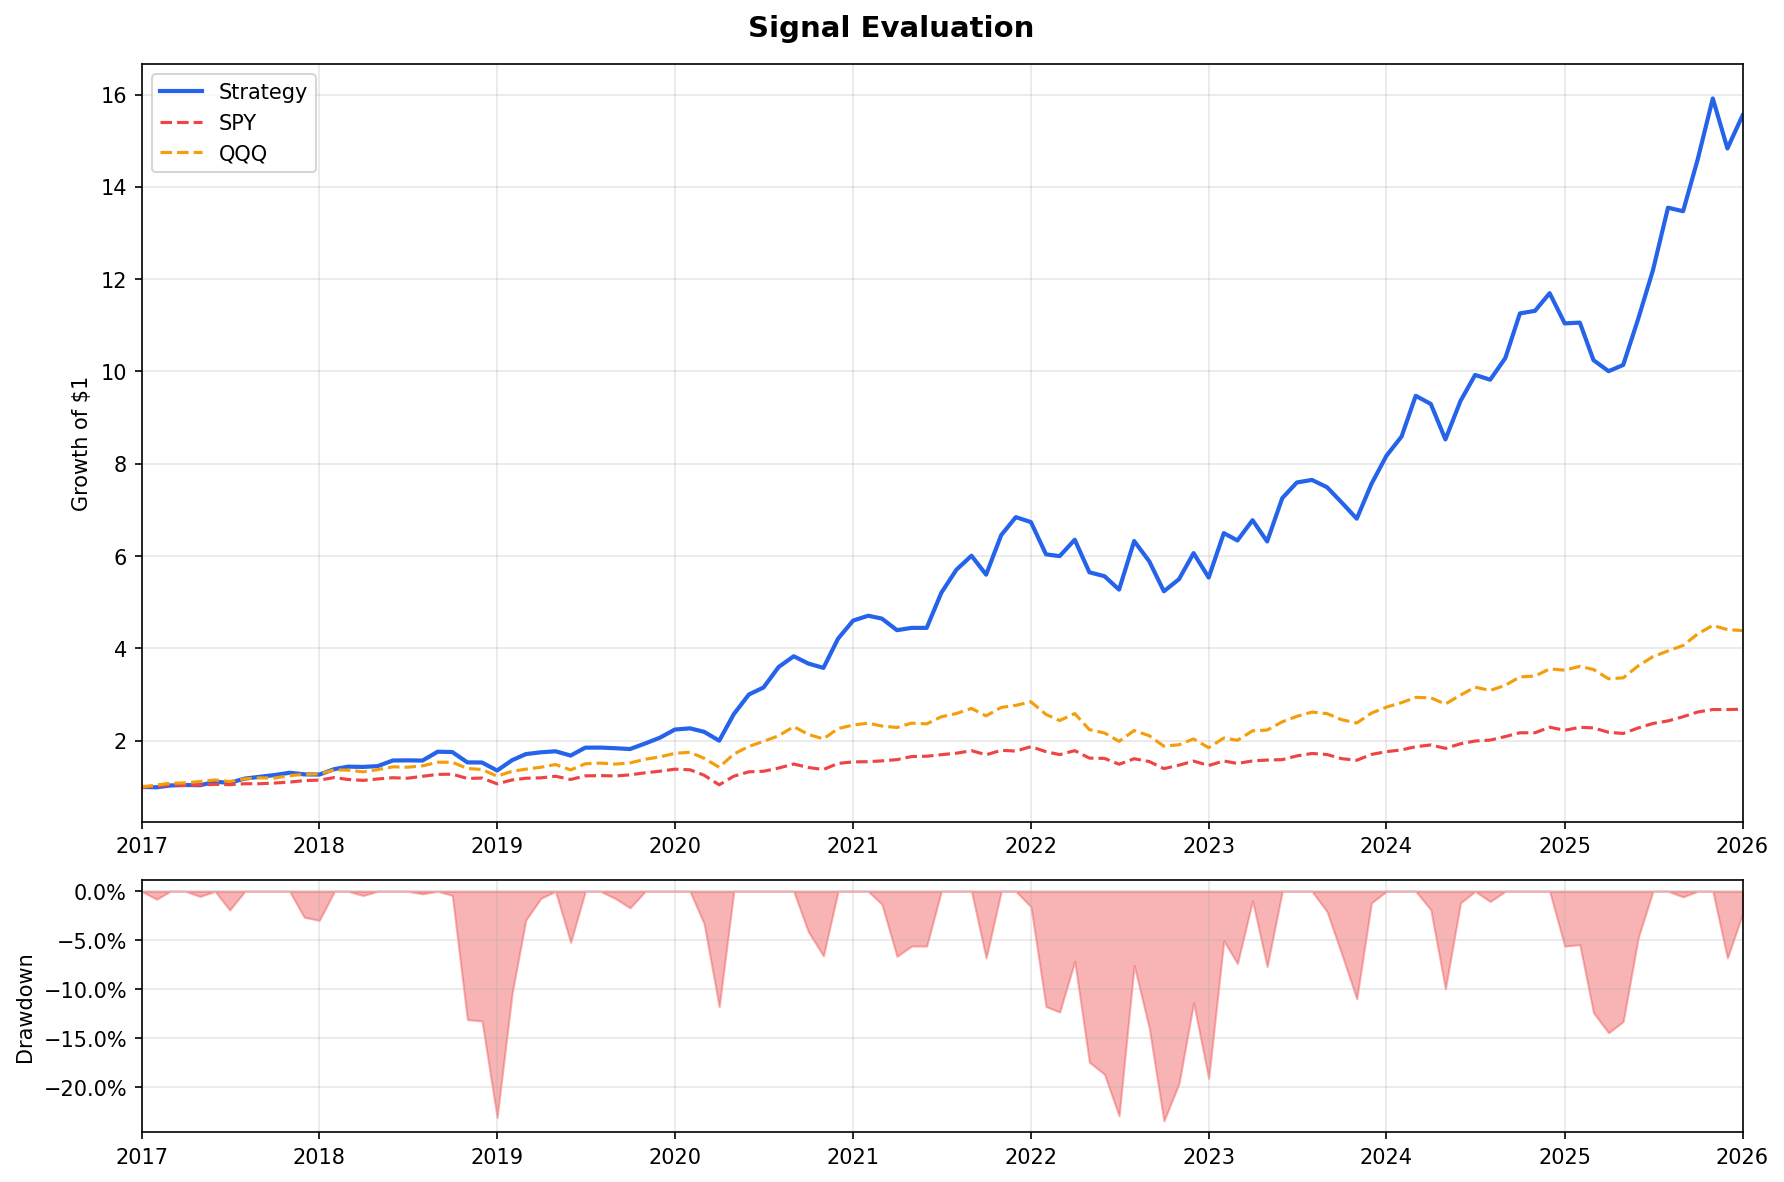
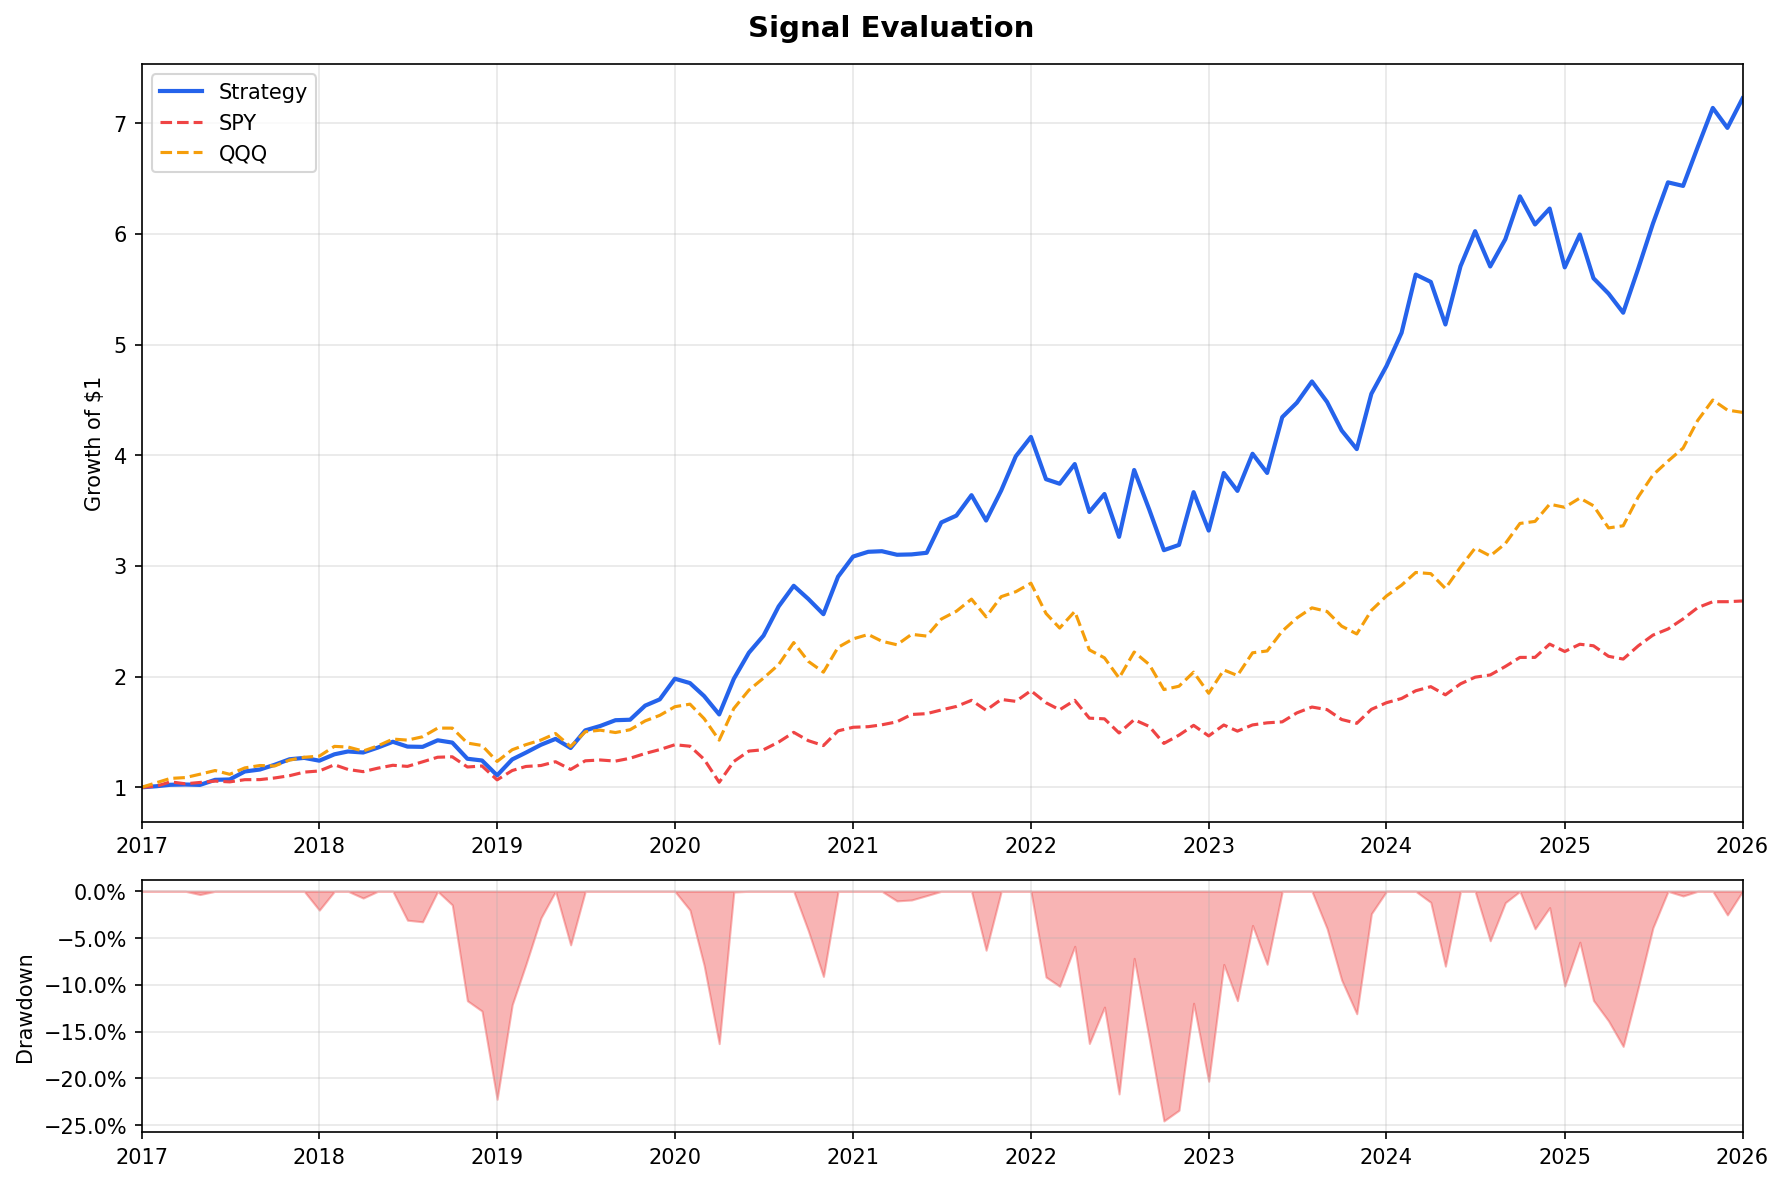
Use example config charts in README for consistency

diff --git a/README.md b/README.md
@@ -6,13 +6,11 @@
 
 Screen stocks using fundamental signals, backtest with point-in-time data, and evaluate with Monte Carlo analysis. Configure signals and weights in YAML — no code changes needed.
 
-### Sample Backtest (2017–2026)
+### Sample Backtest (2017–2026, using included `example.yaml`)
 
 ![Equity Curve](docs/images/equity_curve.png)
 
 ![Monthly Returns](docs/images/monthly_returns.png)
-
-> Results shown are from an optimized signal configuration. The included `config/example.yaml` uses a different combination and will produce different results. Experiment with signals and weights to find what works for you.
 
 ```mermaid
 flowchart LR
